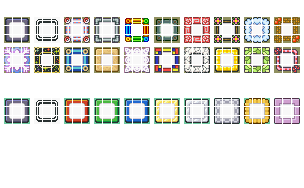
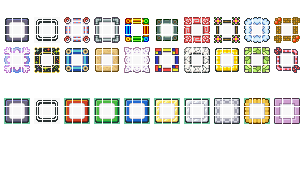
Busy adding game settings ui

diff --git a/Scripts/Ui/Game_ui_manager.cs b/Scripts/Ui/Game_ui_manager.cs
@@ -44,6 +44,8 @@ public class Game_ui_manager : MonoBehaviour,IInjectable
     private Pokemon_party _pokemonPartyHandler;
     private pokemon_storage _pokemonStorageHandler;
     private ItemStorageHandler _itemStorageHandler;
+    private GameSettingsHandler _gameSettingsHandler;
+    
     
     public void Inject(Container container)
     {
@@ -62,6 +64,8 @@ public class Game_ui_manager : MonoBehaviour,IInjectable
         _itemHandler = container.Resolve<Item_handler>();
         _pokemonStorageHandler = container.Resolve<pokemon_storage>();
         _itemStorageHandler = container.Resolve<ItemStorageHandler>();
+        _gameSettingsHandler = container.Resolve<GameSettingsHandler>();
+            
         gameObject.SetActive(true);
         OnInject();
     }
@@ -77,9 +81,9 @@ public class Game_ui_manager : MonoBehaviour,IInjectable
         _inputStateHandler.OnStateChanged += AllowMenuUsage;
     }
 
-    private void AllowMenuUsage( InputState previousState)
+    private void AllowMenuUsage(InputState currentState)
     {
-        _canOpenMenu = previousState.stateName == InputStateName.Empty;
+        _canOpenMenu = currentState.stateName == InputStateName.Empty;
     }
     private void Update()
     {
@@ -115,7 +119,7 @@ public class Game_ui_manager : MonoBehaviour,IInjectable
     {
         var menuOptionsMethods = new List<Action>
         {
-            ViewPokemonParty,()=>StartCoroutine(_saveDataHandler.SaveAllData()), ViewBag, ViewProfile
+            ViewPokemonParty,()=>StartCoroutine(_saveDataHandler.SaveAllData()), ViewBag, ViewProfile, ViewGameSettings
         };
         
         if (!usingWebGl) menuOptionsMethods.Add(_dialogueOptionsHandler.ExitGame);
@@ -179,12 +183,25 @@ public class Game_ui_manager : MonoBehaviour,IInjectable
         ActivateUiElement(menuOptions, false);
         viewingMenu = false;
     }
-
+    private void ClosePCItemOptions()
+    {
+        pcItemOptionsUI.SetActive(false);
+        ManageScreens(0);
+    }
     public void ClosePokemonStorage()
     {
         ManageScreens(-1);
         ActivateUiElement(_pokemonStorageHandler.storageUI,false);
         _pokemonStorageHandler.ClosePC();
+    }
+    
+    
+    
+    private void ClosePCOptions(GameObject ui)
+    {
+        _inputStateHandler.RemoveTopInputLayer(false);
+        ui.SetActive(false);
+        ManageScreens(0);
     }
     public void ViewBag()
     {
@@ -329,11 +346,7 @@ public class Game_ui_manager : MonoBehaviour,IInjectable
         pcItemOptionsUI.SetActive(true);
     }
 
-    private void ClosePCItemOptions()
-    {
-        pcItemOptionsUI.SetActive(false);
-        ManageScreens(0);
-    }
+
     public void ViewPokemonStorage()
     {
         _overworldActionsHandler.usingUI = true;
@@ -356,12 +369,7 @@ public class Game_ui_manager : MonoBehaviour,IInjectable
         pcPokemonOptionsUI.SetActive(true);
     }
 
-    private void ClosePCOptions(GameObject ui)
-    {
-        _inputStateHandler.RemoveTopInputLayer(false);
-        ui.SetActive(false);
-        ManageScreens(0);
-    }
+
     private void SetPcUsage(PCUsageState currentUsageState)
     {
         pcPokemonOptionsUI.SetActive(false);
@@ -380,5 +388,10 @@ public class Game_ui_manager : MonoBehaviour,IInjectable
             ,InputStateGroup.PokeMart,true,
             _pokeMartHandler.storeUI, InputDirection.Vertical, martSelectables,
             _pokeMartHandler.itemSelector,true,true,ClosePokeMart,ClosePokeMart));
+    }
+
+    private void ViewGameSettings()
+    {
+        
     }
 }

diff --git a/Scripts/System/Input State Groups/GameSettingsInputService.cs b/Scripts/System/Input State Groups/GameSettingsInputService.cs
@@ -1,0 +1,34 @@
+using System;
+using System.Collections;
+using System.Collections.Generic;
+
+public class GameSettingsInputService
+{
+    private InputStateHandler _inputStateHandler;
+
+    public GameSettingsInputService(Container container)
+    {
+        _inputStateHandler = container.Resolve<InputStateHandler>();
+    }
+
+    public void DetermineOperation()
+    {
+        Action stateMethod = _inputStateHandler.currentState.stateName switch
+        {
+            InputStateName.GameSettingsNavigation => NavigateSetting,
+            InputStateName.GameSettingOptionsNavigation => NavigateGameSettingOptions,
+            _ => null
+        };
+        stateMethod?.Invoke();
+    }
+
+    private void NavigateSetting()
+    {
+
+    }
+    
+    private void NavigateGameSettingOptions()
+    {
+
+    }
+}

diff --git a/Scripts/Ui/GameSettingsHandler.cs b/Scripts/Ui/GameSettingsHandler.cs
@@ -1,0 +1,21 @@
+using System.Collections.Generic;
+using UnityEngine;
+
+public enum GameSettingName{TextSpeed,BattleScene,BattleStyle}
+public class GameSettingsHandler : MonoBehaviour,IInjectable
+{
+    public List<GameSetting> gameSettings = new();
+    
+    public void Inject(Container container)
+    {
+        
+        gameObject.SetActive(true);
+        OnInject();
+    }
+
+    private void OnInject()
+    {
+        
+    }
+
+}

diff --git a/Scripts/Ui/GameSetting.cs b/Scripts/Ui/GameSetting.cs
@@ -1,0 +1,12 @@
+using System;
+using System.Collections;
+using System.Collections.Generic;
+using TMPro;
+
+[Serializable]
+public class GameSetting
+{
+   public GameSettingName gameSettingName;
+   public List<TMP_Text> settingOptions;
+   
+}

diff --git a/Scripts/System/InputStateHandler.cs b/Scripts/System/InputStateHandler.cs
@@ -5,17 +5,19 @@ using Unity.Mathematics;
 using UnityEngine;
 
 public enum InputDirection { None, Horizontal, Vertical, Grid}
-public enum InputStateGroup {None,Bag,PokemonParty,PokemonDetails,PokemonStorage,PokemonBattle,PokeMart }
+public enum InputStateGroup {None,Bag,PokemonParty,PokemonDetails,PokemonStorage,PokemonBattle,PokeMart, GameSettings}
 public enum InputStateName 
 {
-    PlaceHolder,DialoguePlaceHolder,Empty,DialogueOptions,PokemonBattleMoveSelection,PokemonBattleEnemySelection,PokemonBattleOptions,
+    PlaceHolder,DialoguePlaceHolder,Empty,DialogueOptions,
+    PokemonBattleMoveSelection,PokemonBattleEnemySelection,PokemonBattleOptions,
     PokemonStorageBoxChange,PokemonStorageExit ,PokemonStorageBoxOptions,PokemonStorageBoxNavigation,PokemonStoragePartyNavigation,
     PokemonStorageUsage,ItemStorageUsage,PokemonStoragePartyOptions,PokemonStorageDepositSelection,
     PokemonDetails, PokemonDetailsMoveSelection ,PokemonDetailsMoveData,
     PlayerBagItemSell,PlayerBagNavigation,
     PokemonPartyOptions,PokemonPartyItemUsage,PokemonPartyNavigation,
     MartItemPurchase,MartItemNavigation,
-    PlayerMenu,PlayerProfile,KeyBinds
+    PlayerMenu,PlayerProfile,KeyBinds,
+    GameSettingsNavigation,GameSettingOptionsNavigation
 }
 public class InputStateHandler : MonoBehaviour,IInjectable
 {
@@ -52,6 +54,7 @@ public class InputStateHandler : MonoBehaviour,IInjectable
     private PokemonDetailsInputService _pokemonDetailsInputService;
     private PokemonStorageInputService _pokemonStorageInputService;
     private PokemonPartyInputService _pokemonPartyInputService;
+    private GameSettingsInputService _gameSettingsInputService;
     public void Inject(Container container)
     {
         _dialogueHandler = container.Resolve<Dialogue_handler>();
@@ -62,6 +65,7 @@ public class InputStateHandler : MonoBehaviour,IInjectable
         _pokemartInputService = container.Resolve<PokemartInputService>();
         _pokemonDetailsInputService = container.Resolve<PokemonDetailsInputService>();
         _pokemonStorageInputService = container.Resolve<PokemonStorageInputService>();
+        _gameSettingsInputService = container.Resolve<GameSettingsInputService>();
         
         gameObject.SetActive(true);
         OnInject();
@@ -305,6 +309,7 @@ public class InputStateHandler : MonoBehaviour,IInjectable
             InputStateGroup.PokemonStorage=>_pokemonStorageInputService.DetermineOperation,
             InputStateGroup.PokemonBattle=>_pokemonBattleInputService.DetermineOperation,
             InputStateGroup.PokemonDetails=>_pokemonDetailsInputService.DetermineOperation,
+            InputStateGroup.GameSettings=>_gameSettingsInputService.DetermineOperation,
             _ => null
         };
         groupMethod?.Invoke(); 

diff --git a/Scripts/System/GameInstaller.cs b/Scripts/System/GameInstaller.cs
@@ -36,8 +36,7 @@ public class GameInstaller : MonoBehaviour
     [SerializeField] private overworld_actions overworldActionsHandler;
     [SerializeField] private Item_handler itemHandler;
     [SerializeField] private Move_handler moveHandler;
-   
-    
+    [SerializeField] private GameSettingsHandler gameSettingsHandler;
     private void Awake()
     {
         _container = new Container();
@@ -71,7 +70,9 @@ public class GameInstaller : MonoBehaviour
         _container.RegisterSingleton(() => battleVisualsHandler);
         _container.RegisterSingleton(() => moveHandler);
         _container.RegisterSingleton(() => battleOperationsHandler);
-        Obj_Instance.GetContainer(_container);
+        _container.RegisterSingleton(() => gameSettingsHandler);
+        
+        Obj_Instance.GetContainer(_container);//static class dependency
         
         //Non-Mono services
         var playerBagInputService = new PlayerBagInputService(_container);
@@ -80,6 +81,7 @@ public class GameInstaller : MonoBehaviour
         var pokemonDetailsInputService = new PokemonDetailsInputService(_container);
         var pokemonStorageInputService = new PokemonStorageInputService(_container);
         var pokemonPartyInputService = new PokemonPartyInputService(_container);
+        var gameSettingsInputService = new GameSettingsInputService(_container);
         
         _container.RegisterSingleton(() => playerBagInputService);
         _container.RegisterSingleton(() => pokemonBattleInputService);
@@ -87,6 +89,7 @@ public class GameInstaller : MonoBehaviour
         _container.RegisterSingleton(() => pokemonStorageInputService);
         _container.RegisterSingleton(() => pokemonDetailsInputService);
         _container.RegisterSingleton(() => pokemonPartyInputService);
+        _container.RegisterSingleton(() => gameSettingsInputService);
         
         var injectables = FindObjectsOfType<MonoBehaviour>(true);
         

diff --git a/Scripts/player_scripts/Bag.cs b/Scripts/player_scripts/Bag.cs
@@ -141,9 +141,9 @@ public class Bag : MonoBehaviour,IInjectable
         }
         RemoveItem(item);
         return;
-        void ResetQuantity(InputState state)
+        void ResetQuantity(InputState currentState)
         {
-            state.currentSelectionIndex = 0;
+            currentState.currentSelectionIndex = 0;
         }
     }
 